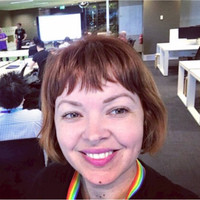
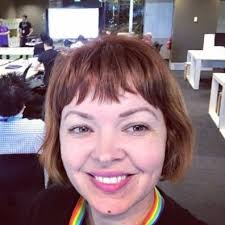
fixed issue with profile images

diff --git a/src/pages/index.js b/src/pages/index.js
@@ -72,9 +72,9 @@ export default class IndexPage extends React.Component {
 					<select id="locations" onChange={this.filterLocation}>
 						<option value="">Filter by Location</option>
 						{locationList.map(country => (
-							<optgroup label={country.country}>
+							<optgroup key={country.country} label={country.country}>
 								{country.cities.map(city => (
-									<option value={city.slug}>{`${city.name}, ${
+									<option key={city.slug} value={city.slug}>{`${city.name}, ${
 										city.state
 									}`}</option>
 								))}

diff --git a/src/profiles/maria-cristina-del-valle.md b/src/profiles/maria-cristina-del-valle.md
@@ -1,14 +1,15 @@
 ---
 title: Maria Cristina Del Valle
 tagline: 'Developer, artist, Renaissance women'
-profileImage: /img/maria-cristina-del-valle.jpg
+profileImage: ../img/uploads/maria-cristina-del-valle.jpg
 location: Boston
 socials:
-  - platform: twitter
-    url: 'https://twitter.com/MariaCr82469249'
-  - featured: true
-    platform: linkedin
-    url: 'https://www.linkedin.com/in/maria-cristina-del-valle/'
+    - platform: twitter
+      url: 'https://twitter.com/MariaCr82469249'
+    - featured: true
+      platform: linkedin
+      url: 'https://www.linkedin.com/in/maria-cristina-del-valle/'
 talks: []
 ---
+
 Maria Cristina Del Valle is a developer at WeSpire. She wants to see see how technology can help solve problems in areas such as sustainability. Maria Cristina has worked in companies such as athenahealth and the Smithsonian that breath of knowledge is essential to understand and build a product that will resonate with their users.
